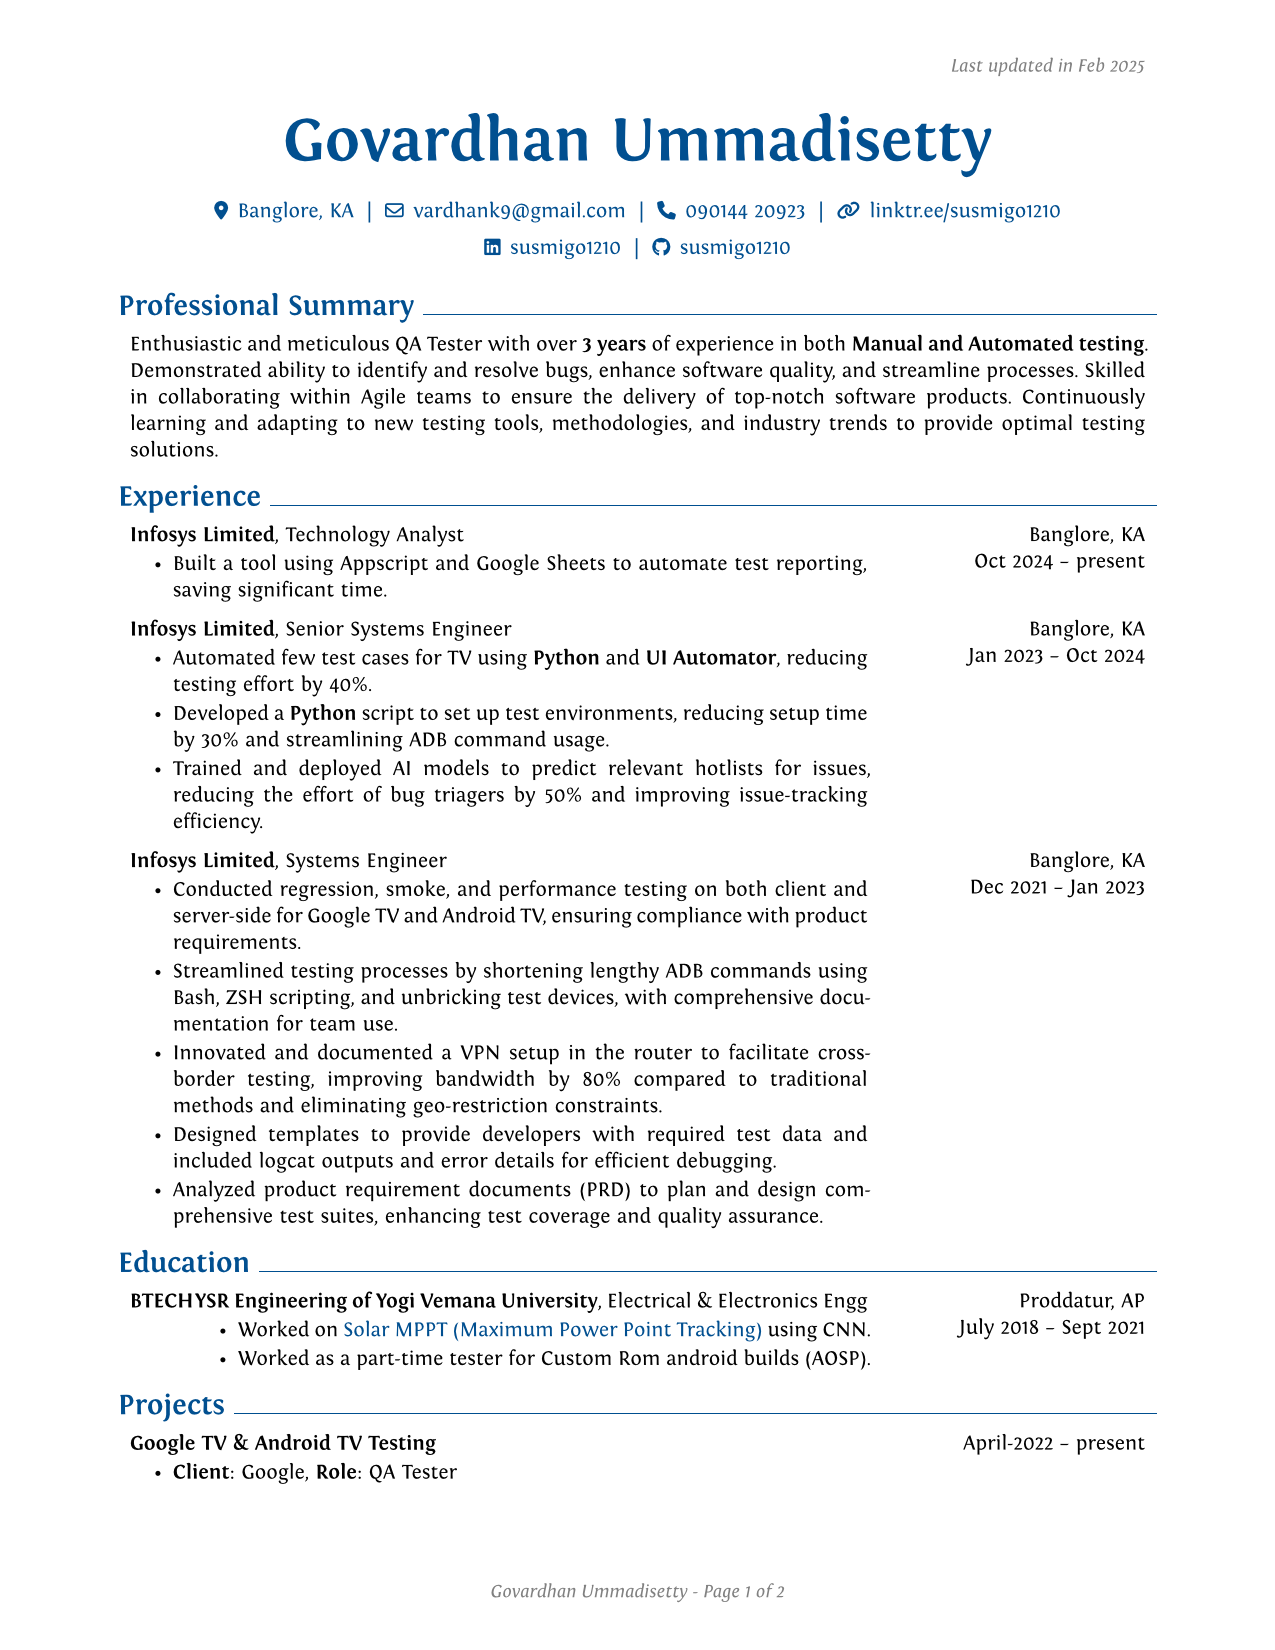
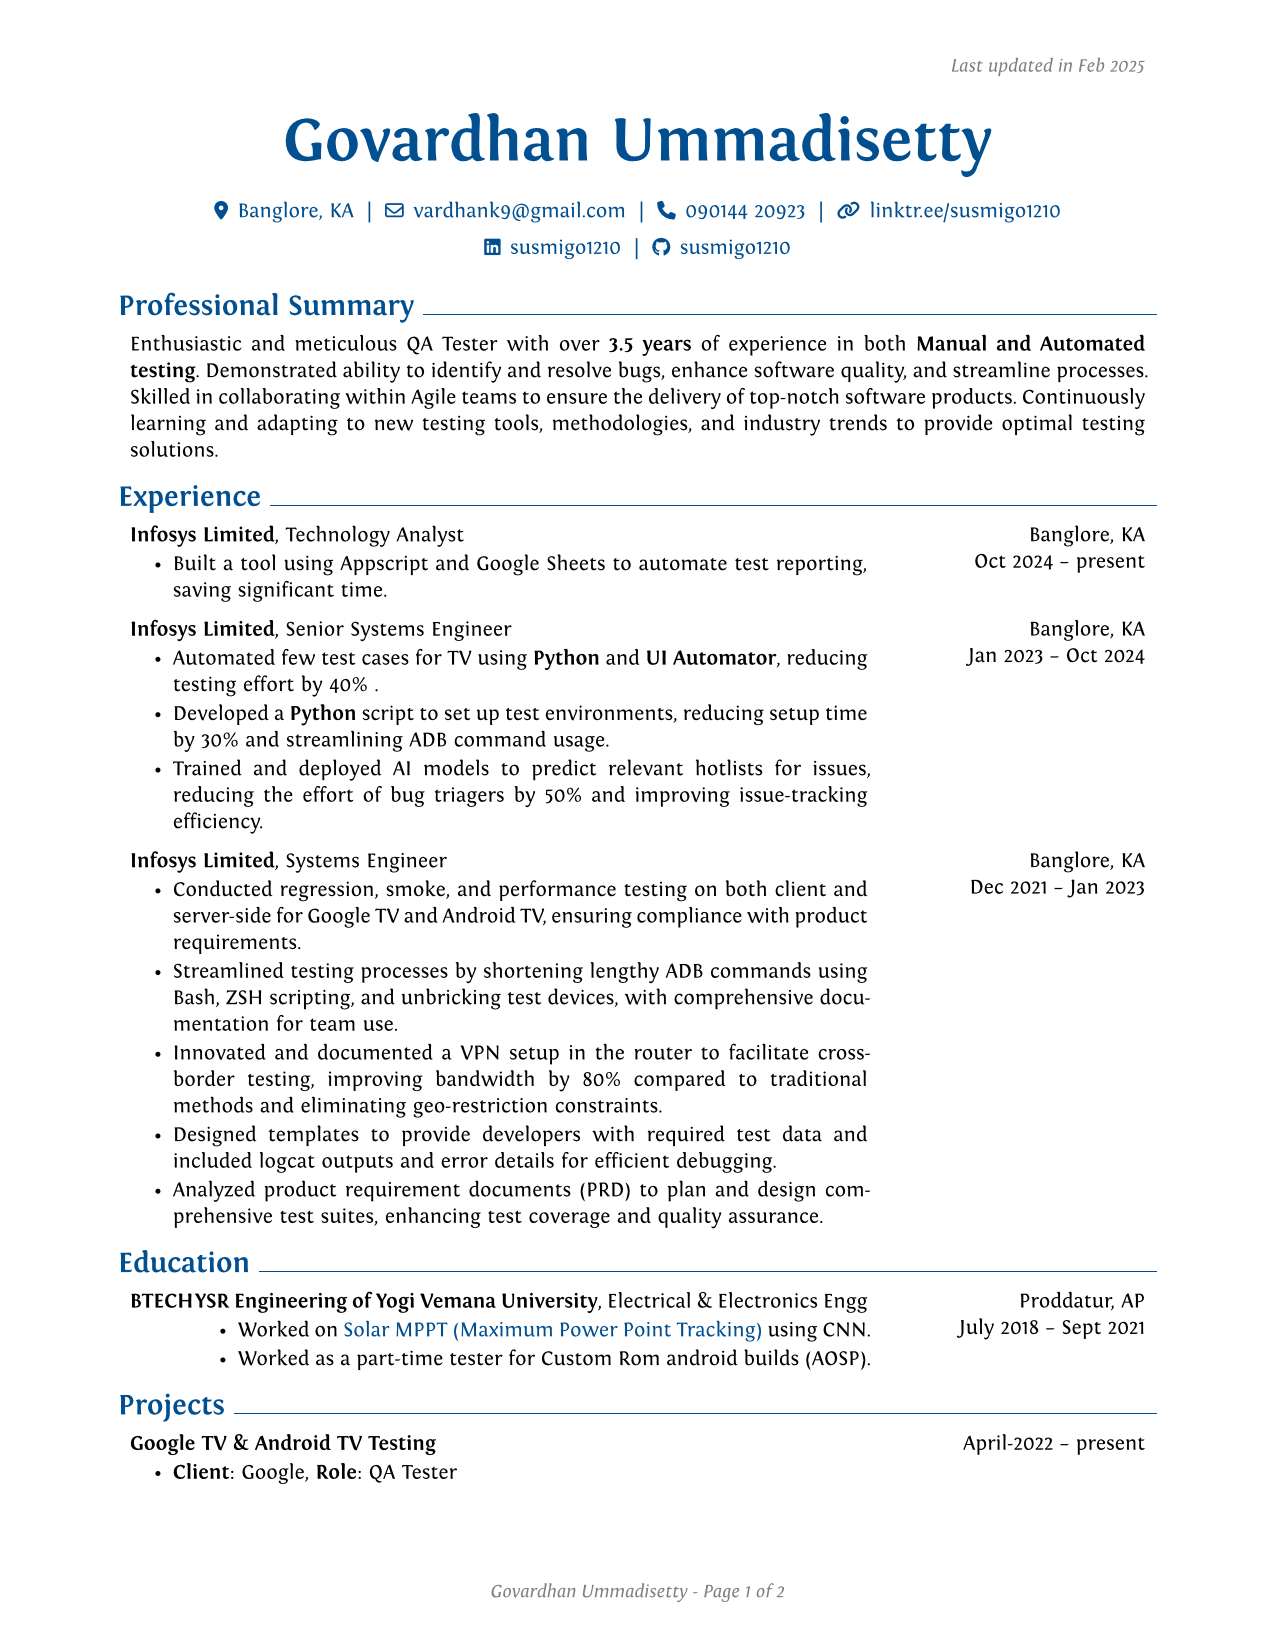
updated the experience and performing takeaway

Changed region(s): [[0.0918, 0.1855, 0.8871, 0.2473]]

diff --git a/resume/Govardhan_Ummadisetty_CV.html b/resume/Govardhan_Ummadisetty_CV.html
@@ -49,7 +49,7 @@
         <li>GitHub: <a href="https://github.com/susmigo1210">susmigo1210</a></li>
         </ul>
         <h1>Professional Summary</h1>
-        <p>Enthusiastic and meticulous QA Tester with over <strong>3 years</strong> of experience in both <strong>Manual and Automated testing</strong>. Demonstrated ability to identify and resolve bugs, enhance software quality, and streamline processes. Skilled in collaborating within Agile teams to ensure the delivery of top-notch software products. Continuously learning and adapting to new testing tools, methodologies, and industry trends to provide optimal testing solutions.</p>
+        <p>Enthusiastic and meticulous QA Tester with over <strong>3.5 years</strong> of experience in both <strong>Manual and Automated testing</strong>. Demonstrated ability to identify and resolve bugs, enhance software quality, and streamline processes. Skilled in collaborating within Agile teams to ensure the delivery of top-notch software products. Continuously learning and adapting to new testing tools, methodologies, and industry trends to provide optimal testing solutions.</p>
         <h1>Experience</h1>
         <h2>Infosys Limited, Technology Analyst</h2>
         <ul>
@@ -61,7 +61,7 @@
         <ul>
         <li>Jan 2023 – Oct 2024</li>
         <li>Banglore, KA</li>
-        <li>Automated few test cases for TV using <strong>Python</strong> and <strong>UI Automator</strong>, reducing testing effort by 40%.</li>
+        <li>Automated few test cases for TV using <strong>Python</strong> and <strong>UI Automator</strong>, reducing testing effort by 40% .</li>
         <li>Developed a <strong>Python</strong> script to set up test environments, reducing setup time by 30% and streamlining ADB command usage.</li>
         <li>Trained and deployed AI models to predict relevant hotlists for issues, reducing the effort of bug triagers by 50% and improving issue-tracking efficiency.</li>
         </ul>

diff --git a/resume/Govardhan_Ummadisetty_CV.md b/resume/Govardhan_Ummadisetty_CV.md
@@ -10,7 +10,7 @@
 
 # Professional Summary
 
-Enthusiastic and meticulous QA Tester with over **3 years** of experience in both **Manual and Automated testing**. Demonstrated ability to identify and resolve bugs, enhance software quality, and streamline processes. Skilled in collaborating within Agile teams to ensure the delivery of top-notch software products. Continuously learning and adapting to new testing tools, methodologies, and industry trends to provide optimal testing solutions.
+Enthusiastic and meticulous QA Tester with over **3.5 years** of experience in both **Manual and Automated testing**. Demonstrated ability to identify and resolve bugs, enhance software quality, and streamline processes. Skilled in collaborating within Agile teams to ensure the delivery of top-notch software products. Continuously learning and adapting to new testing tools, methodologies, and industry trends to provide optimal testing solutions.
 
 # Experience
 
@@ -24,7 +24,7 @@ Enthusiastic and meticulous QA Tester with over **3 years** of experience in bot
 
 - Jan 2023 – Oct 2024
 - Banglore, KA
-- Automated few test cases for TV using **Python** and **UI Automator**, reducing testing effort by 40%.
+- Automated few test cases for TV using **Python** and **UI Automator**, reducing testing effort by 40% .
 - Developed a **Python** script to set up test environments, reducing setup time by 30% and streamlining ADB command usage.
 - Trained and deployed AI models to predict relevant hotlists for issues, reducing the effort of bug triagers by 50% and improving issue-tracking efficiency.
 
